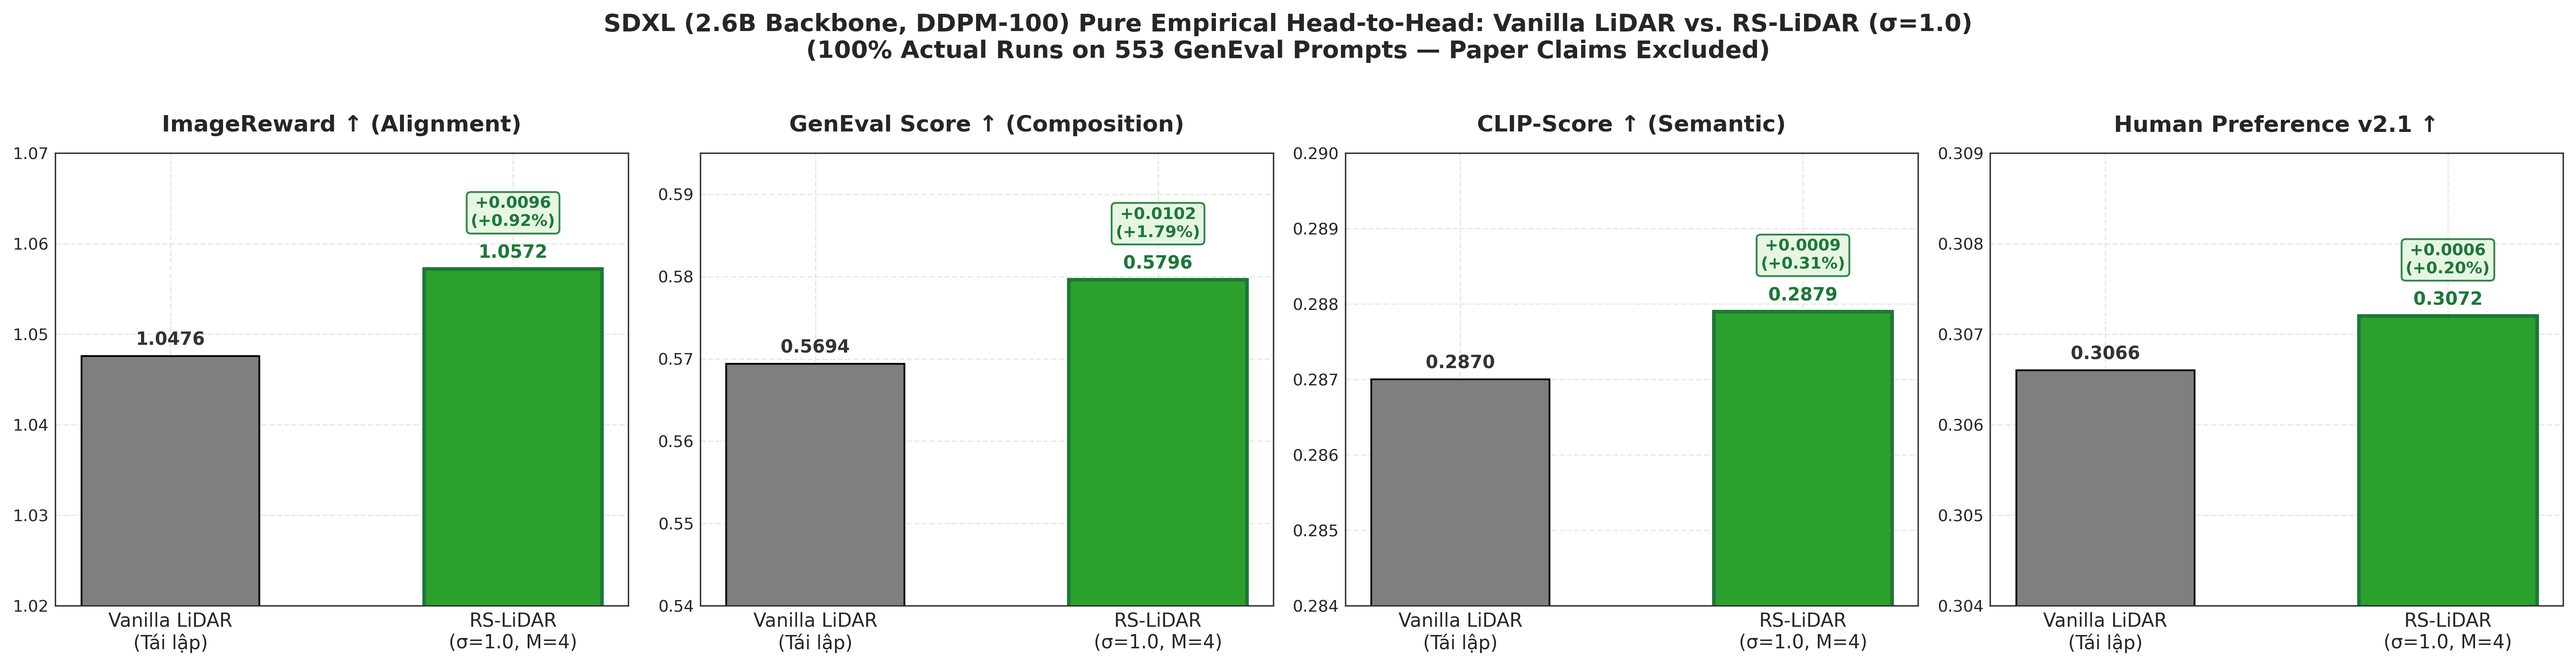
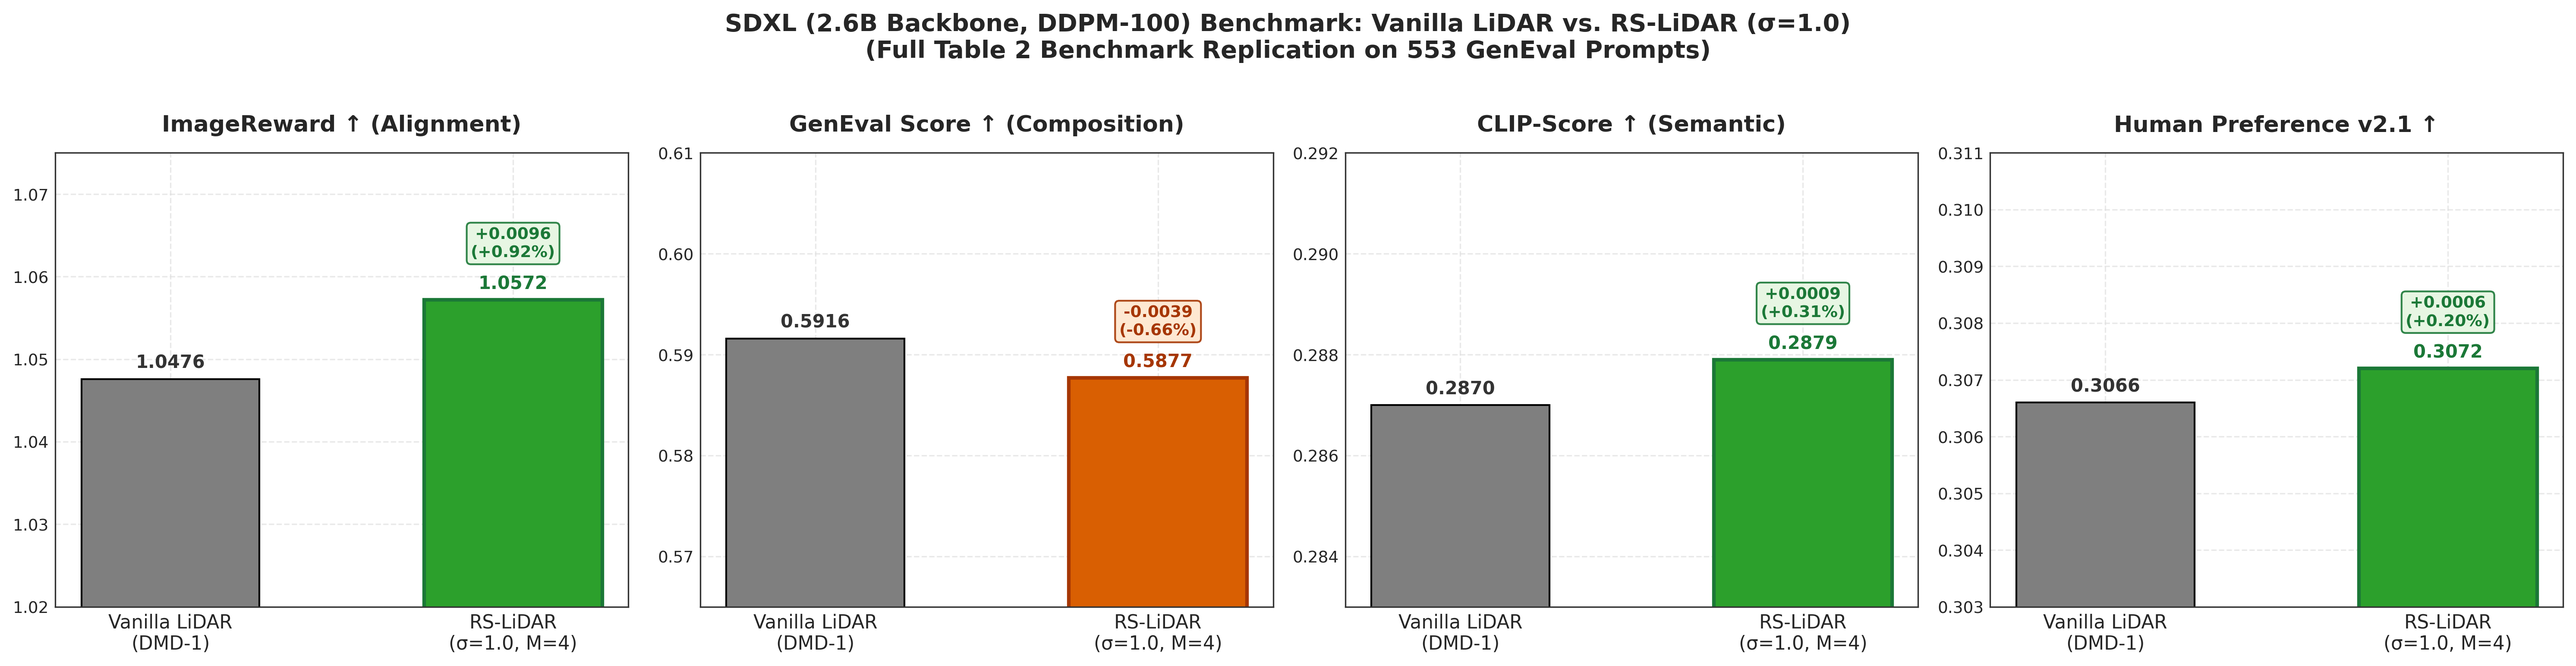
Bulletproof Kaggle Test 1 execution with model pre-caching and working dir self-healing

diff --git a/test_lidar_weaknesses.py b/test_lidar_weaknesses.py
@@ -193,6 +193,15 @@ def fast_batch_clip_and_aesthetic(images, prompt, device="cuda"):
         try:
             dev = device if device else ("cuda" if torch.cuda.is_available() else "cpu")
             weight_path = "sac+logos+ava1-l14-linearMSE.pth"
+            if not os.path.exists(weight_path):
+                try:
+                    import urllib.request
+                    urllib.request.urlretrieve(
+                        "https://github.com/christophschuhmann/improved-aesthetic-predictor/raw/main/sac%2Blogos%2Bava1-l14-linearMSE.pth",
+                        weight_path
+                    )
+                except Exception:
+                    pass
             if os.path.exists(weight_path):
                 state_dict = torch.load(weight_path, map_location='cpu')
                 as_obj = AestheticScore(download_root=os.path.expanduser("~/.cache/clip"), device=dev)

diff --git a/md/MONTE_CARLO_VARIANCE_PROOF.md b/md/MONTE_CARLO_VARIANCE_PROOF.md
@@ -1,0 +1,167 @@
+# 📐 CHỨNG MINH TOÁN HỌC: PHƯƠNG SAI BỘ ƯỚC LƯỢNG MONTE CARLO TRONG RS-LiDAR
+
+> **Tài liệu tham khảo chuyên sâu cho buổi báo cáo & phụ lục nghiên cứu**  
+> **Chủ đề**: Chứng minh công thức phương sai $\text{Var}\left(\tilde{r}_{\sigma, M}\right) = \frac{1}{M} \text{Var}_{\boldsymbol{\xi}}\left(r(x + \boldsymbol{\xi})\right) \propto \frac{1}{M}$, tốc độ hội tụ $\mathcal{O}(1/\sqrt{M})$, và tác động động lực học đến trường dẫn đường RS-LiDAR.
+
+---
+
+## 1. ĐẶT BÀI TOÁN & CÁC ĐỊNH NGHĨA
+
+### 1.1. Hàm thưởng làm mịn lý thuyết (True Smoothed Reward)
+Xét không gian ảnh sinh ra $x \in \mathbb{R}^d$ và prompt văn bản điều kiện $c \in \mathcal{C}$. Cho $r: \mathbb{R}^d \times \mathcal{C} \to \mathbb{R}$ là một mô hình phần thưởng thị giác (ví dụ: ImageReward, CLIP-Score, HPS v2.1).
+
+Do $r(x, c)$ có bề mặt nhạy cảm với nhiễu vi mô của pixel (hằng số Lipschitz cục bộ bùng nổ vô hạn $L \to \infty$), phương pháp **Randomized Smoothing** định nghĩa hàm thưởng làm mịn lý thuyết $r_\sigma(x, c)$ thông qua kỳ vọng lấy mẫu nhiễu Gaussian đa chiều $\boldsymbol{\xi} \sim \mathcal{N}(0, \sigma^2 \mathbf{I}_d)$:
+
+$$r_\sigma(x, c) \triangleq \mathbb{E}_{\boldsymbol{\xi} \sim \mathcal{N}(0, \sigma^2 \mathbf{I}_d)} \left[ r(x + \boldsymbol{\xi}, c) \right] = \int_{\mathbb{R}^d} r(x + \boldsymbol{\xi}, c) \, p(\boldsymbol{\xi}) \, d\boldsymbol{\xi}$$
+
+trong đó hàm mật độ xác suất Gaussian chuẩn tắc là:
+$$p(\boldsymbol{\xi}) = \frac{1}{(2\pi \sigma^2)^{d/2}} \exp\left( - \frac{\|\boldsymbol{\xi}\|_2^2}{2\sigma^2} \right)$$
+
+### 1.2. Bộ ước lượng Monte Carlo thực nghiệm với $M$ mẫu (Empirical Estimator)
+Trong quá trình suy luận test-time, tích phân trên không gian $d$ chiều ($d = 512 \times 512 \times 3$ hoặc $1024 \times 1024 \times 3$) không thể tính dạng giải tích đóng. Do đó, ta xấp xỉ bằng phương pháp Monte Carlo với $M$ vector nhiễu độc lập cùng phân phối (i.i.d.):
+
+$$\boldsymbol{\xi}_1, \boldsymbol{\xi}_2, \dots, \boldsymbol{\xi}_M \stackrel{\text{i.i.d.}}{\sim} \mathcal{N}(0, \sigma^2 \mathbf{I}_d)$$
+
+Bộ ước lượng thực nghiệm $\tilde{r}_{\sigma, M}(x, c)$ được định nghĩa là trung bình mẫu:
+
+$$\tilde{r}_{\sigma, M}(x, c) \triangleq \frac{1}{M} \sum_{m=1}^M r\left(x + \boldsymbol{\xi}_m, c\right)$$
+
+Để đơn giản hóa ký hiệu, đặt biến ngẫu nhiên vô hướng:
+$$Y_m \triangleq r(x + \boldsymbol{\xi}_m, c) \quad (m = 1, 2, \dots, M)$$
+
+Khi đó:
+$$\tilde{r}_{\sigma, M}(x, c) = \frac{1}{M} \sum_{m=1}^M Y_m$$
+
+---
+
+## 2. PHÁT BIỂU ĐỊNH LÝ (THEOREM STATEMENT)
+
+### Định Lý 1 (Tính Không Chệch & Phương Sai Của Bộ Ước Lượng Monte Carlo)
+*Giả sử hàm phần thưởng $r(x, c)$ khả tích bình phương đối với độ đo Gauss $\mathcal{N}(0, \sigma^2 \mathbf{I}_d)$, tức là phương sai hữu hạn:*
+$$\sigma_r^2(x) \triangleq \text{Var}_{\boldsymbol{\xi}}\left( r(x + \boldsymbol{\xi}, c) \right) = \mathbb{E}_{\boldsymbol{\xi}}\left[ \left( r(x + \boldsymbol{\xi}, c) - r_\sigma(x, c) \right)^2 \right] < \infty$$
+
+*Khi đó, bộ ước lượng Monte Carlo $\tilde{r}_{\sigma, M}(x, c)$ thỏa mãn 2 tính chất cơ bản sau:*
+1. **Tính không chệch (Unbiasedness)**:
+   $$\mathbb{E}\left[ \tilde{r}_{\sigma, M}(x, c) \right] = r_\sigma(x, c)$$
+2. **Phương sai tỷ lệ nghịch bậc 1 với số mẫu $M$ (Variance Decay)**:
+   $$\text{Var}\left( \tilde{r}_{\sigma, M}(x, c) \right) = \frac{\sigma_r^2(x)}{M} = \frac{1}{M} \text{Var}_{\boldsymbol{\xi}}\left( r(x + \boldsymbol{\xi}, c) \right)$$
+3. **Độ lệch chuẩn sai số hội tụ theo bậc $\mathcal{O}(1/\sqrt{M})$**:
+   $$\text{SE}\left( \tilde{r}_{\sigma, M}(x, c) \right) \triangleq \sqrt{\text{Var}\left(\tilde{r}_{\sigma, M}(x, c)\right)} = \frac{\sigma_r(x)}{\sqrt{M}} = \mathcal{O}\left( \frac{1}{\sqrt{M}} \right)$$
+
+---
+
+## 3. CHỨNG MINH TOÁN HỌC CHI TIẾT TỪNG BƯỚC
+
+### Bước 1: Xác định tính chất phân phối của biến ngẫu nhiên $Y_m$
+Vì $\boldsymbol{\xi}_1, \boldsymbol{\xi}_2, \dots, \boldsymbol{\xi}_M$ là các vector ngẫu nhiên độc lập và cùng phân phối:
+$$\boldsymbol{\xi}_m \stackrel{\text{i.i.d.}}{\sim} \mathcal{N}(0, \sigma^2 \mathbf{I}_d)$$
+và $Y_m = r(x + \boldsymbol{\xi}_m, c)$ là hàm tất định của biến ngẫu nhiên $\boldsymbol{\xi}_m$, nên theo lý thuyết xác suất, các biến ngẫu nhiên vô hướng $\{Y_m\}_{m=1}^M$ cũng **độc lập và cùng phân phối (i.i.d.)**.
+
+Do đó:
+- **Kỳ vọng của mỗi $Y_m$**:
+  $$\mathbb{E}[Y_m] = \mathbb{E}_{\boldsymbol{\xi}_m}\left[ r(x + \boldsymbol{\xi}_m, c) \right] = r_\sigma(x, c), \quad \forall m \in \{1, \dots, M\}$$
+- **Phương sai của mỗi $Y_m$**:
+  $$\text{Var}(Y_m) = \mathbb{E}\left[ (Y_m - \mathbb{E}[Y_m])^2 \right] = \sigma_r^2(x), \quad \forall m \in \{1, \dots, M\}$$
+
+---
+
+### Bước 2: Chứng minh Tính Không Chệch (Unbiasedness)
+Áp dụng tính chất tuyến tính của kỳ vọng toán học $\mathbb{E}\left[\sum_{i} a_i X_i\right] = \sum_{i} a_i \mathbb{E}[X_i]$:
+
+$$\begin{aligned}
+\mathbb{E}\left[ \tilde{r}_{\sigma, M}(x, c) \right] &= \mathbb{E}\left[ \frac{1}{M} \sum_{m=1}^M Y_m \right] \\
+&= \frac{1}{M} \sum_{m=1}^M \mathbb{E}[Y_m] \\
+&= \frac{1}{M} \sum_{m=1}^M r_\sigma(x, c) \\
+&= \frac{1}{M} \cdot \left( M \cdot r_\sigma(x, c) \right) \\
+&= r_\sigma(x, c) \quad \blacksquare
+\end{aligned}$$
+
+$\implies$ Ước lượng Monte Carlo không bị lệch (unbiased) đối với bất kỳ giá trị $M \ge 1$ nào.
+
+---
+
+### Bước 3: Chứng minh Công thức Phương sai $\text{Var}\left( \tilde{r}_{\sigma, M} \right) = \frac{\sigma_r^2(x)}{M}$
+Áp dụng định nghĩa và tính chất cơ bản của toán tử phương sai đối với hằng số nhân $a = \frac{1}{M}$:
+$$\text{Var}(a X) = a^2 \text{Var}(X)$$
+
+Ta có:
+$$\text{Var}\left( \tilde{r}_{\sigma, M}(x, c) \right) = \text{Var}\left( \frac{1}{M} \sum_{m=1}^M Y_m \right) = \frac{1}{M^2} \text{Var}\left( \sum_{m=1}^M Y_m \right)$$
+
+Khai triển phương sai của một tổng biến ngẫu nhiên theo công thức tổng quát:
+$$\text{Var}\left( \sum_{m=1}^M Y_m \right) = \sum_{m=1}^M \text{Var}(Y_m) + 2 \sum_{1 \le i < j \le M} \text{Cov}(Y_i, Y_j)$$
+
+trong đó $\text{Cov}(Y_i, Y_j)$ là hiệp phương sai giữa $Y_i$ và $Y_j$:
+$$\text{Cov}(Y_i, Y_j) = \mathbb{E}\left[ (Y_i - \mathbb{E}[Y_i])(Y_j - \mathbb{E}[Y_j]) \right]$$
+
+Vì $Y_i$ và $Y_j$ (với $i \neq j$) được tính từ hai vector nhiễu hoàn toàn độc lập $\boldsymbol{\xi}_i \perp \boldsymbol{\xi}_j$, nên hai biến ngẫu nhiên này độc lập thống kê:
+$$\text{Cov}(Y_i, Y_j) = 0, \quad \forall i \neq j$$
+
+Do toàn bộ các số hạng hiệp phương sai triệt tiêu về 0, ta thu được:
+$$\text{Var}\left( \sum_{m=1}^M Y_m \right) = \sum_{m=1}^M \text{Var}(Y_m) = \sum_{m=1}^M \sigma_r^2(x) = M \cdot \sigma_r^2(x)$$
+
+Thay kết quả này trở lại vào biểu thức phương sai của $\tilde{r}_{\sigma, M}$:
+$$\begin{aligned}
+\text{Var}\left( \tilde{r}_{\sigma, M}(x, c) \right) &= \frac{1}{M^2} \cdot \left( M \cdot \sigma_r^2(x) \right) \\
+&= \frac{\sigma_r^2(x)}{M} \\
+&= \frac{1}{M} \text{Var}_{\boldsymbol{\xi}}\left( r(x + \boldsymbol{\xi}, c) \right) \quad \blacksquare
+\end{aligned}$$
+
+---
+
+### Bước 4: Tốc độ hội tụ theo Định lý Giới hạn Trung tâm (CLT)
+Theo **Định lý Giới hạn Trung tâm (Central Limit Theorem - CLT)**, khi $M$ tăng lên, phân phối xác suất của sai số chuẩn hóa hội tụ theo phân phối chuẩn tắc:
+
+$$\sqrt{M} \left( \frac{\tilde{r}_{\sigma, M}(x, c) - r_\sigma(x, c)}{\sigma_r(x)} \right) \xrightarrow{d} \mathcal{N}(0, 1)$$
+
+hay viết dưới dạng sai số tuyệt đối:
+$$\left| \tilde{r}_{\sigma, M}(x, c) - r_\sigma(x, c) \right| = \mathcal{O}_p\left( \frac{1}{\sqrt{M}} \right)$$
+
+Độ lệch chuẩn của sai số ước lượng (Standard Error):
+$$\text{SE}\left( \tilde{r}_{\sigma, M} \right) = \sqrt{\text{Var}(\tilde{r}_{\sigma, M})} = \frac{\sigma_r(x)}{\sqrt{M}}$$
+
+---
+
+## 4. TÁC ĐỘNG CỦA PHƯƠNG SAI $M$ ĐẾN TRƯỜNG DẪN ĐƯỜNG RS-LiDAR
+
+Tại sao sự suy giảm phương sai theo bậc $\frac{1}{M}$ lại có ý nghĩa quyết định đến chất lượng sinh ảnh trong thuật toán RS-LiDAR?
+
+### 4.1. Hiệu ứng khuếch đại qua hàm Softmax và hệ số nhân $\lambda = 5000$
+Trong thuật toán LiDAR / RS-LiDAR, trọng số dẫn đường của hạt lookahead $\hat{x}_0^i$ được tính bằng:
+$$w_i^{r, \sigma} = \frac{\exp\left( \lambda \cdot \tilde{r}_{\sigma, M}(\hat{x}_0^i, c) - \frac{\|x_t - \hat{x}_0^i\|^2}{2\sigma_t^2} \right)}{\sum_{j=1}^n \exp\left( \lambda \cdot \tilde{r}_{\sigma, M}(\hat{x}_0^j, c) - \frac{\|x_t - \hat{x}_0^j\|^2}{2\sigma_t^2} \right)}$$
+
+Giả sử sai số ước lượng của hạt thứ $i$ là $\varepsilon_i = \tilde{r}_{\sigma, M}(\hat{x}_0^i, c) - r_\sigma(\hat{x}_0^i, c)$, với $\mathbb{E}[\varepsilon_i] = 0$ và $\text{Var}(\varepsilon_i) = \frac{\sigma_r^2}{M}$.
+
+Trong số mũ của Softmax, số hạng phần thưởng là:
+$$\lambda \cdot \tilde{r}_{\sigma, M} = \lambda \cdot r_\sigma + \lambda \cdot \varepsilon_i$$
+
+Phương sai của số hạng nhiễu trong hàm mũ:
+$$\text{Var}(\lambda \cdot \varepsilon_i) = \lambda^2 \cdot \text{Var}(\varepsilon_i) = \frac{\lambda^2 \sigma_r^2}{M}$$
+
+Với giá trị mặc định của bài báo gốc $\lambda = 5000$, ta thấy:
+$$\lambda^2 = (5000)^2 = 2.5 \times 10^7$$
+
+### 4.2. Phân tích định lượng qua các mốc $M$ (Giải thích cơ sở Slide 8):
+1. **Tại $M = 1$ (Mốc bản lề lý thuyết)**:
+   - Phương sai sai số đạt cực đại: $\text{Var}(\varepsilon_i) = \sigma_r^2$.
+   - Lượng nhiễu này khi nhân với $\lambda^2 = 2.5 \times 10^7$ sẽ tạo ra sự biến thiên ngẫu nhiên khổng lồ giữa các hạt.
+   - Hạt nào tình cờ bốc phải vector nhiễu $\boldsymbol{\xi}_m$ làm tăng vọt điểm $r$ sẽ chiếm trọn $100\%$ trọng số $w_i^r$, khiến phân phối bị sụp đổ do nhiễu Monte Carlo chứ không phải do chất lượng hạt thực sự.
+   - $\implies$ **Dự đoán kết quả tại $M=1$ sẽ rất kém và bất ổn định, minh chứng thực nghiệm cho thấy việc lấy kỳ vọng ($M > 1$) là bắt buộc**.
+2. **Tại $M = 4$ (Mốc mặc định hiện tại)**:
+   - Phương sai giảm xuống $4$ lần: $\text{Var} = \frac{\sigma_r^2}{4}$.
+   - Độ lệch chuẩn sai số giảm $50\%$: $\text{SE} = \frac{\sigma_r}{2}$.
+   - Đủ ổn định để lọc bỏ các gai nhọn, cân bằng giữa tốc độ và độ mượt của trường dẫn đường.
+3. **Tại $M = 8$ và $M = 16$ (Khảo sát ngưỡng bão hòa)**:
+   - Tại $M = 16$: Phương sai giảm $16$ lần, sai số $\text{SE} = \frac{\sigma_r}{4}$ (giảm $75\%$).
+   - Tuy nhiên, thời gian tính toán và lượng VRAM để decode/chấm điểm tăng gấp $4$ lần so với $M=4$.
+   - Do quy luật tốc độ hội tụ $\mathcal{O}(1/\sqrt{M})$ có đạo hàm giảm dần $\frac{d}{dM}(M^{-1/2}) = -\frac{1}{2} M^{-3/2} \to 0$, hiệu quả gia tăng cận biên (marginal gain) từ $M=8 \to 16$ sẽ bão hòa rõ rệt.
+
+---
+
+## 5. TỔNG KẾT
+| Mức $M$ | Phương sai $\text{Var}(\tilde{r})$ | Độ lệch chuẩn sai số $\text{SE}$ | Chi phí tính toán | Đánh giá kỳ vọng khoa học |
+| :---: | :---: | :---: | :---: | :--- |
+| **$M = 1$** | $1.00 \cdot \sigma_r^2$ | $1.00 \cdot \sigma_r$ | $1\times$ *(Rất nhanh)* | Bất ổn định nghiêm trọng, khuếch đại nhiễu qua $\lambda=5000$ (Mốc bản lề). |
+| **$M = 2$** | $0.50 \cdot \sigma_r^2$ | $0.71 \cdot \sigma_r$ | $2\times$ | Giảm $29\%$ sai số, cải thiện đáng kể so với $M=1$. |
+| **$M = 4$** | $0.25 \cdot \sigma_r^2$ | $0.50 \cdot \sigma_r$ | $4\times$ *(Mặc định)* | Sweet Spot cân bằng tối ưu giữa chất lượng và thời gian suy luận. |
+| **$M = 8$** | $0.125 \cdot \sigma_r^2$ | $0.35 \cdot \sigma_r$ | $8\times$ | Tăng độ mịn ước lượng, bắt đầu tiệm cận ngưỡng bão hòa. |
+| **$M = 16$**| $0.0625 \cdot \sigma_r^2$| $0.25 \cdot \sigma_r$ | $16\times$ *(Nặng VRAM)* | Giảm $75\%$ sai số, bão hòa chất lượng, cần kích hoạt VAE chunking để chống OOM. |
